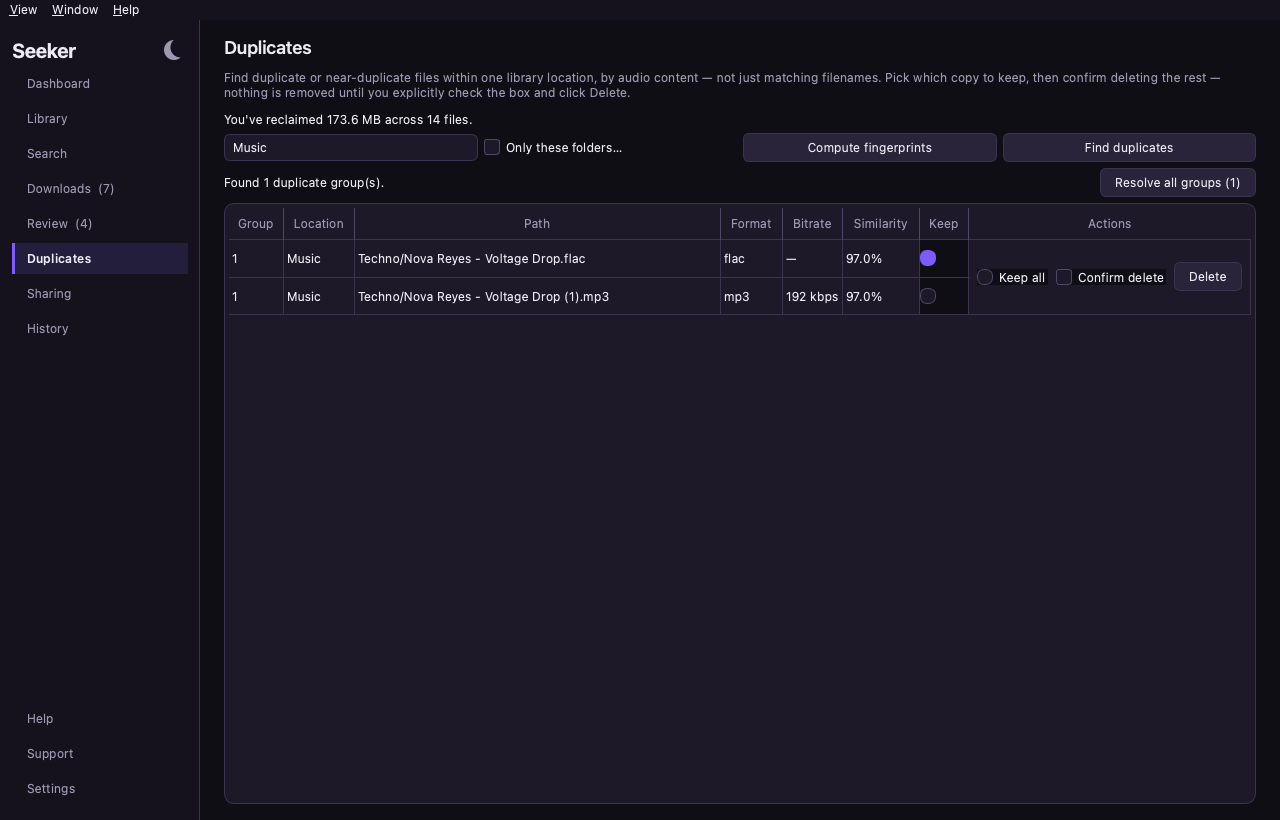
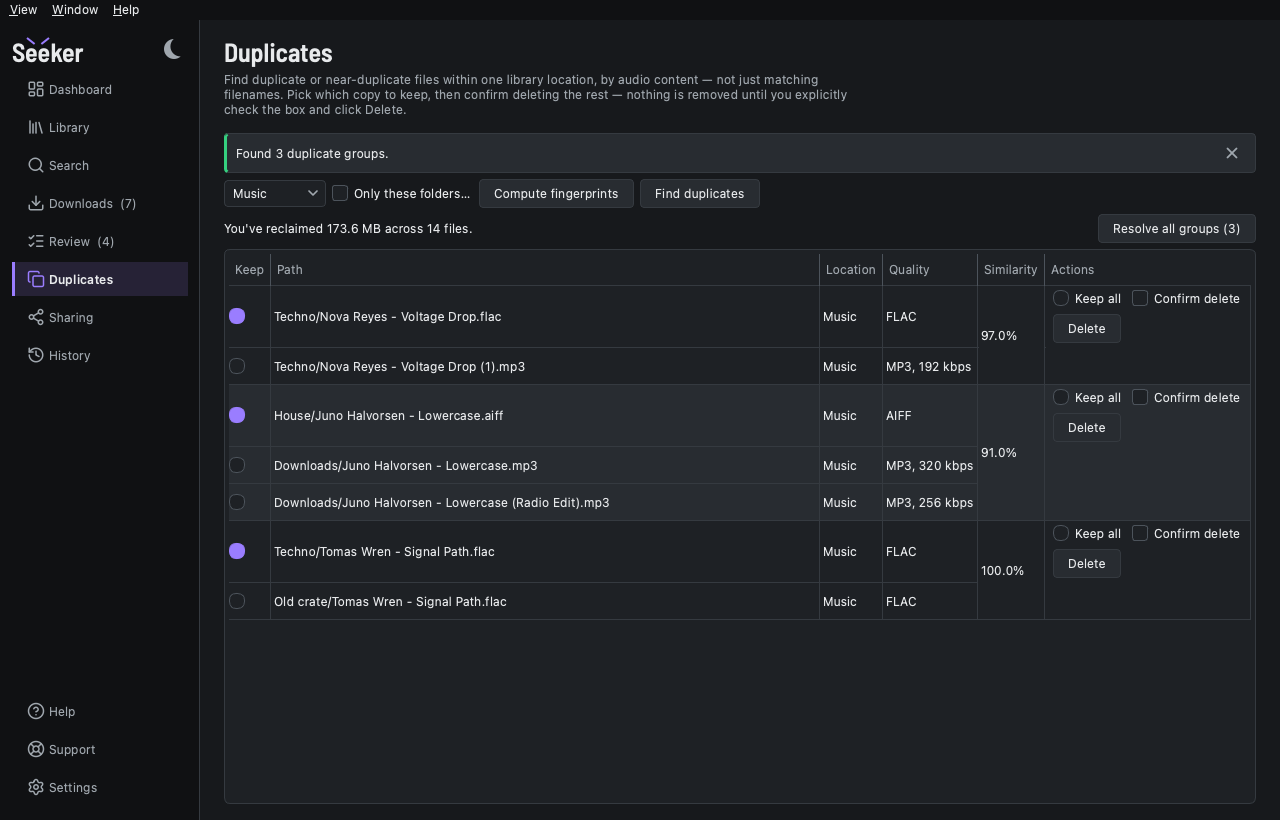
Round 11 S36 §36 — README images: the refreshed UI, plus Library and the wizard
tools/screenshots.py --readme now also renders the wizard's first
step (README_WIZARD; capture_wizard takes the steps to render). All
six images regenerated from the refreshed UI; the README's table
gains Library and the wizard.

Claude-Session: https://claude.ai/code/session_01HGBsjjB9cJ9kPpWTQ9GLPt

diff --git a/tools/screenshots.py b/tools/screenshots.py
@@ -680,6 +680,8 @@ README_IMAGES = (
     ("review.png", "review", "dark"),
     ("duplicates.png", "duplicates", "dark"),
 )
+# The wizard's first step, which a new user meets before any page.
+README_WIZARD = ("wizard.png", "spotify", "dark")
 
 
 def capture_window(
@@ -721,10 +723,11 @@ def capture_wizard(
         theme_name: str,
         sizes: Sequence[tuple[int, int]],
         name_for: Callable[[str, tuple[int, int]], Path],
+        steps: Sequence[str] = WIZARD_STEPS,
 ) -> list[Path]:
-    """Each onboarding step, shown by index. Step 3 renders before its
-    Docker check runs: that check probes the real machine, which a
-    screenshot must not depend on."""
+    """Each of `steps`, shown by its index in the wizard. The SoulSeek
+    step renders before its Docker check runs: that check probes the
+    real machine, which a screenshot must not depend on."""
     application = build_demo_application()
     application.spotify_configured = False
     application.set_theme_mode(theme_name)
@@ -733,8 +736,8 @@ def capture_wizard(
     written: list[Path] = []
     try:
         wizard.show()
-        for index, step in enumerate(WIZARD_STEPS):
-            wizard.stack.setCurrentIndex(index)
+        for step in steps:
+            wizard.stack.setCurrentIndex(WIZARD_STEPS.index(step))
             for size in sizes:
                 wizard.resize(*size)
                 settle(app, wizard, 0.3)
@@ -792,6 +795,11 @@ def render_readme(app: QApplication, out_dir: Path) -> list[Path]:
             app, theme_name, [screen for _, screen in wanted], SIZES[:1],
             lambda screen, _size, files=files: out_dir / files[screen],
         )
+    file_name, step, wizard_theme = README_WIZARD
+    written += capture_wizard(
+        app, wizard_theme, SIZES[:1],
+        lambda _screen, _size: out_dir / file_name, steps=(step,),
+    )
     return written
 
 

diff --git a/tests/test_screenshots_tool.py b/tests/test_screenshots_tool.py
@@ -45,3 +45,7 @@ def test_every_readme_image_names_a_real_screen(screenshots):
     for _file, screen, image_theme in screenshots.README_IMAGES:
         assert screen in names
         assert image_theme in screenshots.THEMES
+
+    _file, step, wizard_theme = screenshots.README_WIZARD
+    assert step in screenshots.WIZARD_STEPS
+    assert wizard_theme in screenshots.THEMES

diff --git a/README.md b/README.md
@@ -14,15 +14,18 @@ find and download the highest-quality available copy of each track.
 
 ## Screenshots
 
-Dashboard, Review and Duplicates, plus the dark/light theme pair. All
-captured against invented data (`FakeApplication`, the same test double
-the UI tests use, from `tests/fakes.py`) — no real playlist names, library paths or
-SoulSeek usernames.
+Dashboard, Library, Review, Duplicates and the setup wizard's first
+step, plus the Dashboard in both themes. All captured against invented
+data (`FakeApplication`, the same test double the UI tests use, from
+`tests/fakes.py`) — no real playlist names, library paths or SoulSeek
+usernames. `uv run python tools/screenshots.py --readme` regenerates
+them.
 
 | | |
 |---|---|
 | ![Dashboard](docs/screenshots/dashboard-dark.png) Dashboard (dark) | ![Dashboard, light theme](docs/screenshots/dashboard-light.png) Dashboard (light) |
 | ![Review](docs/screenshots/review.png) Review | ![Duplicates](docs/screenshots/duplicates.png) Duplicates |
+| ![Library](docs/screenshots/library-dark.png) Library | ![Setup wizard, first step](docs/screenshots/wizard.png) Setup wizard |
 
 ## What it does
 
